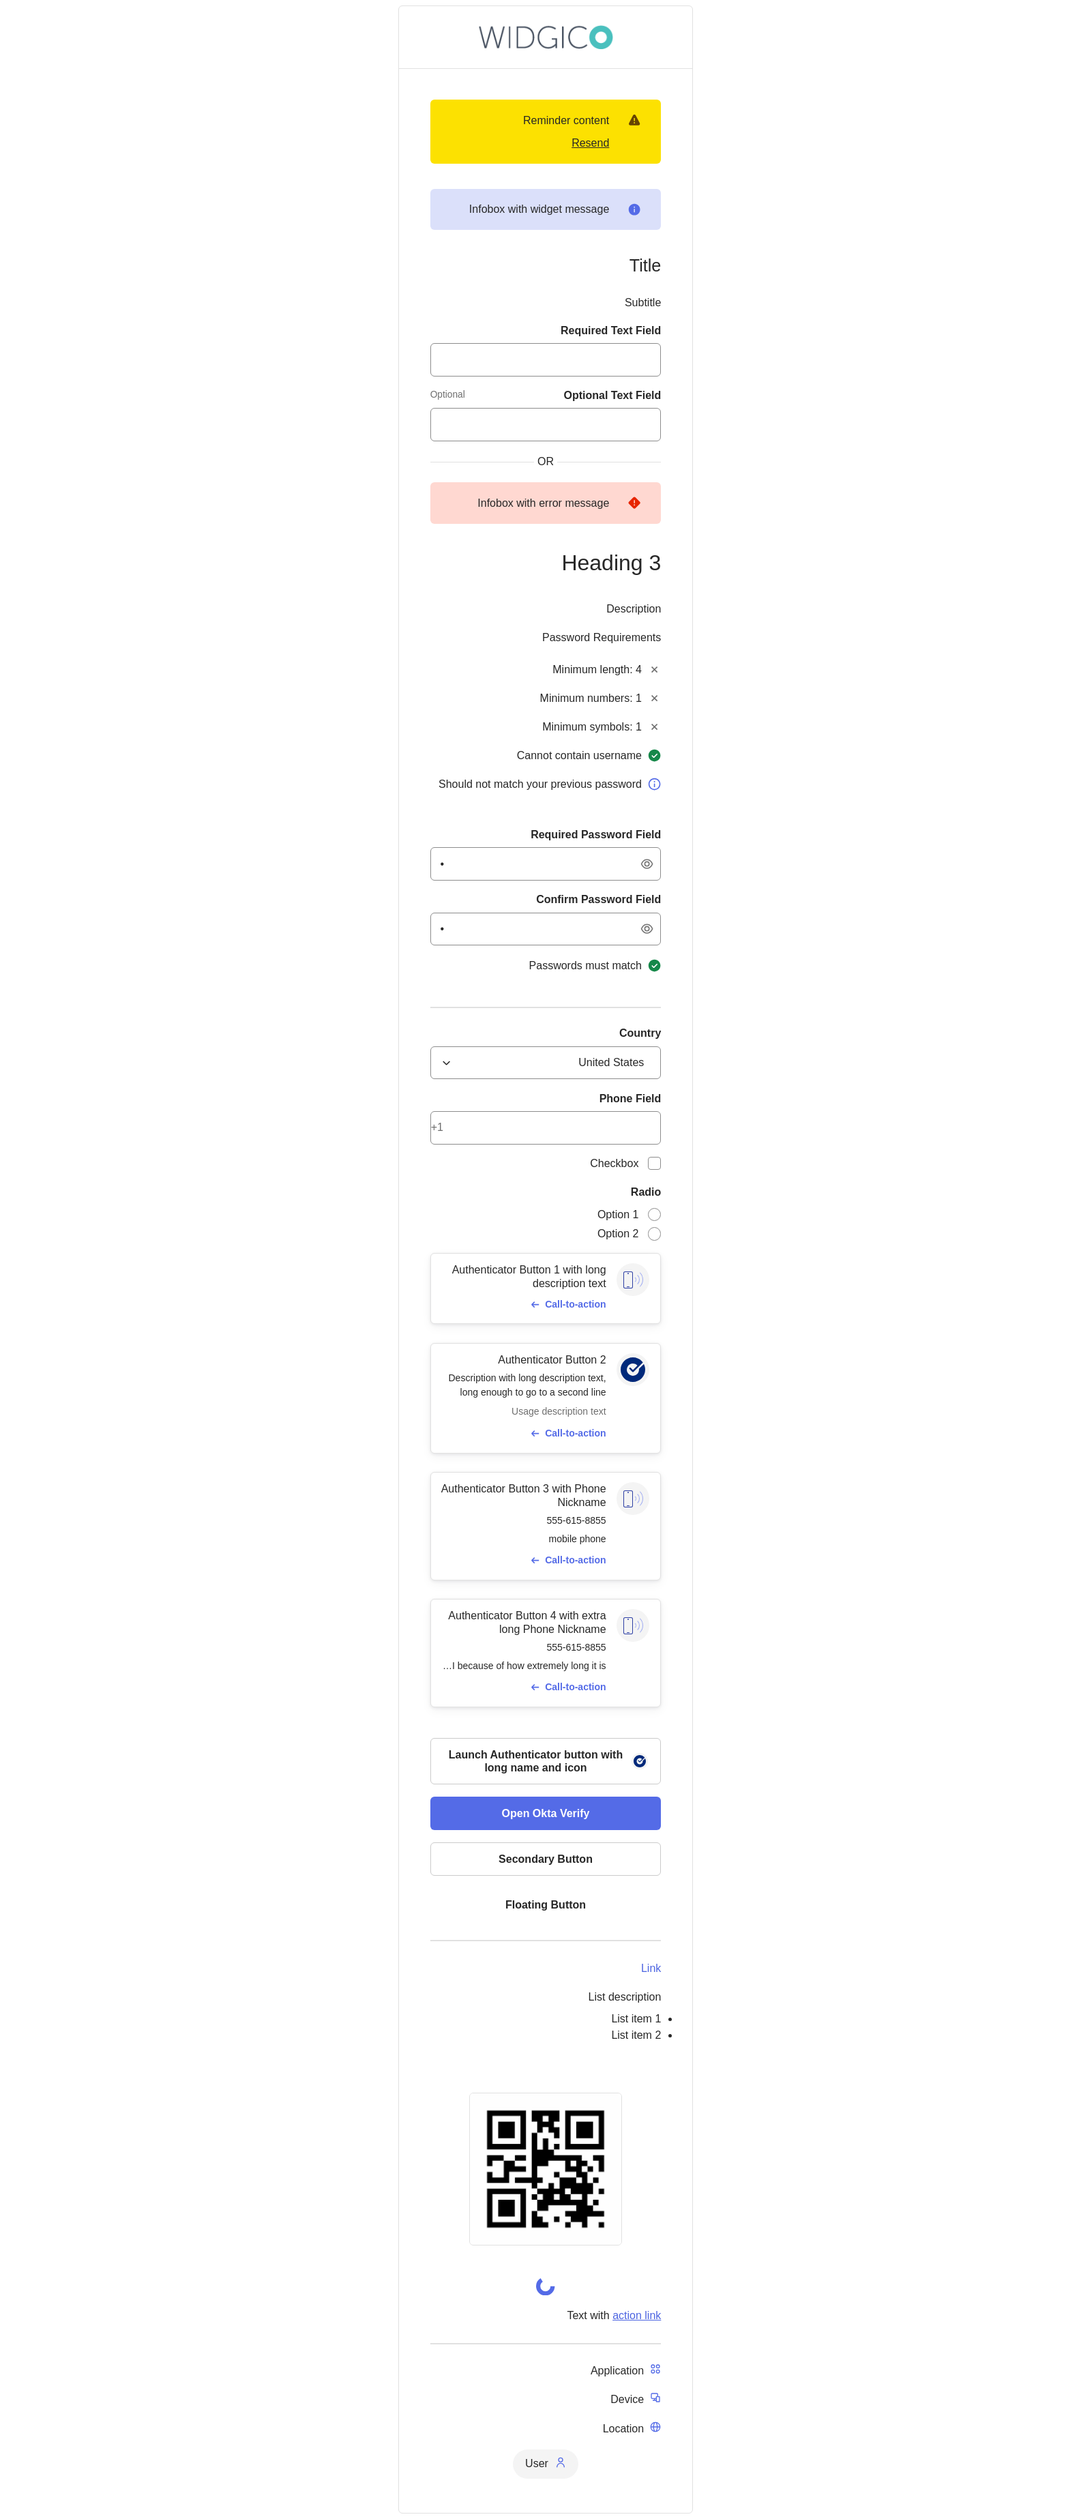
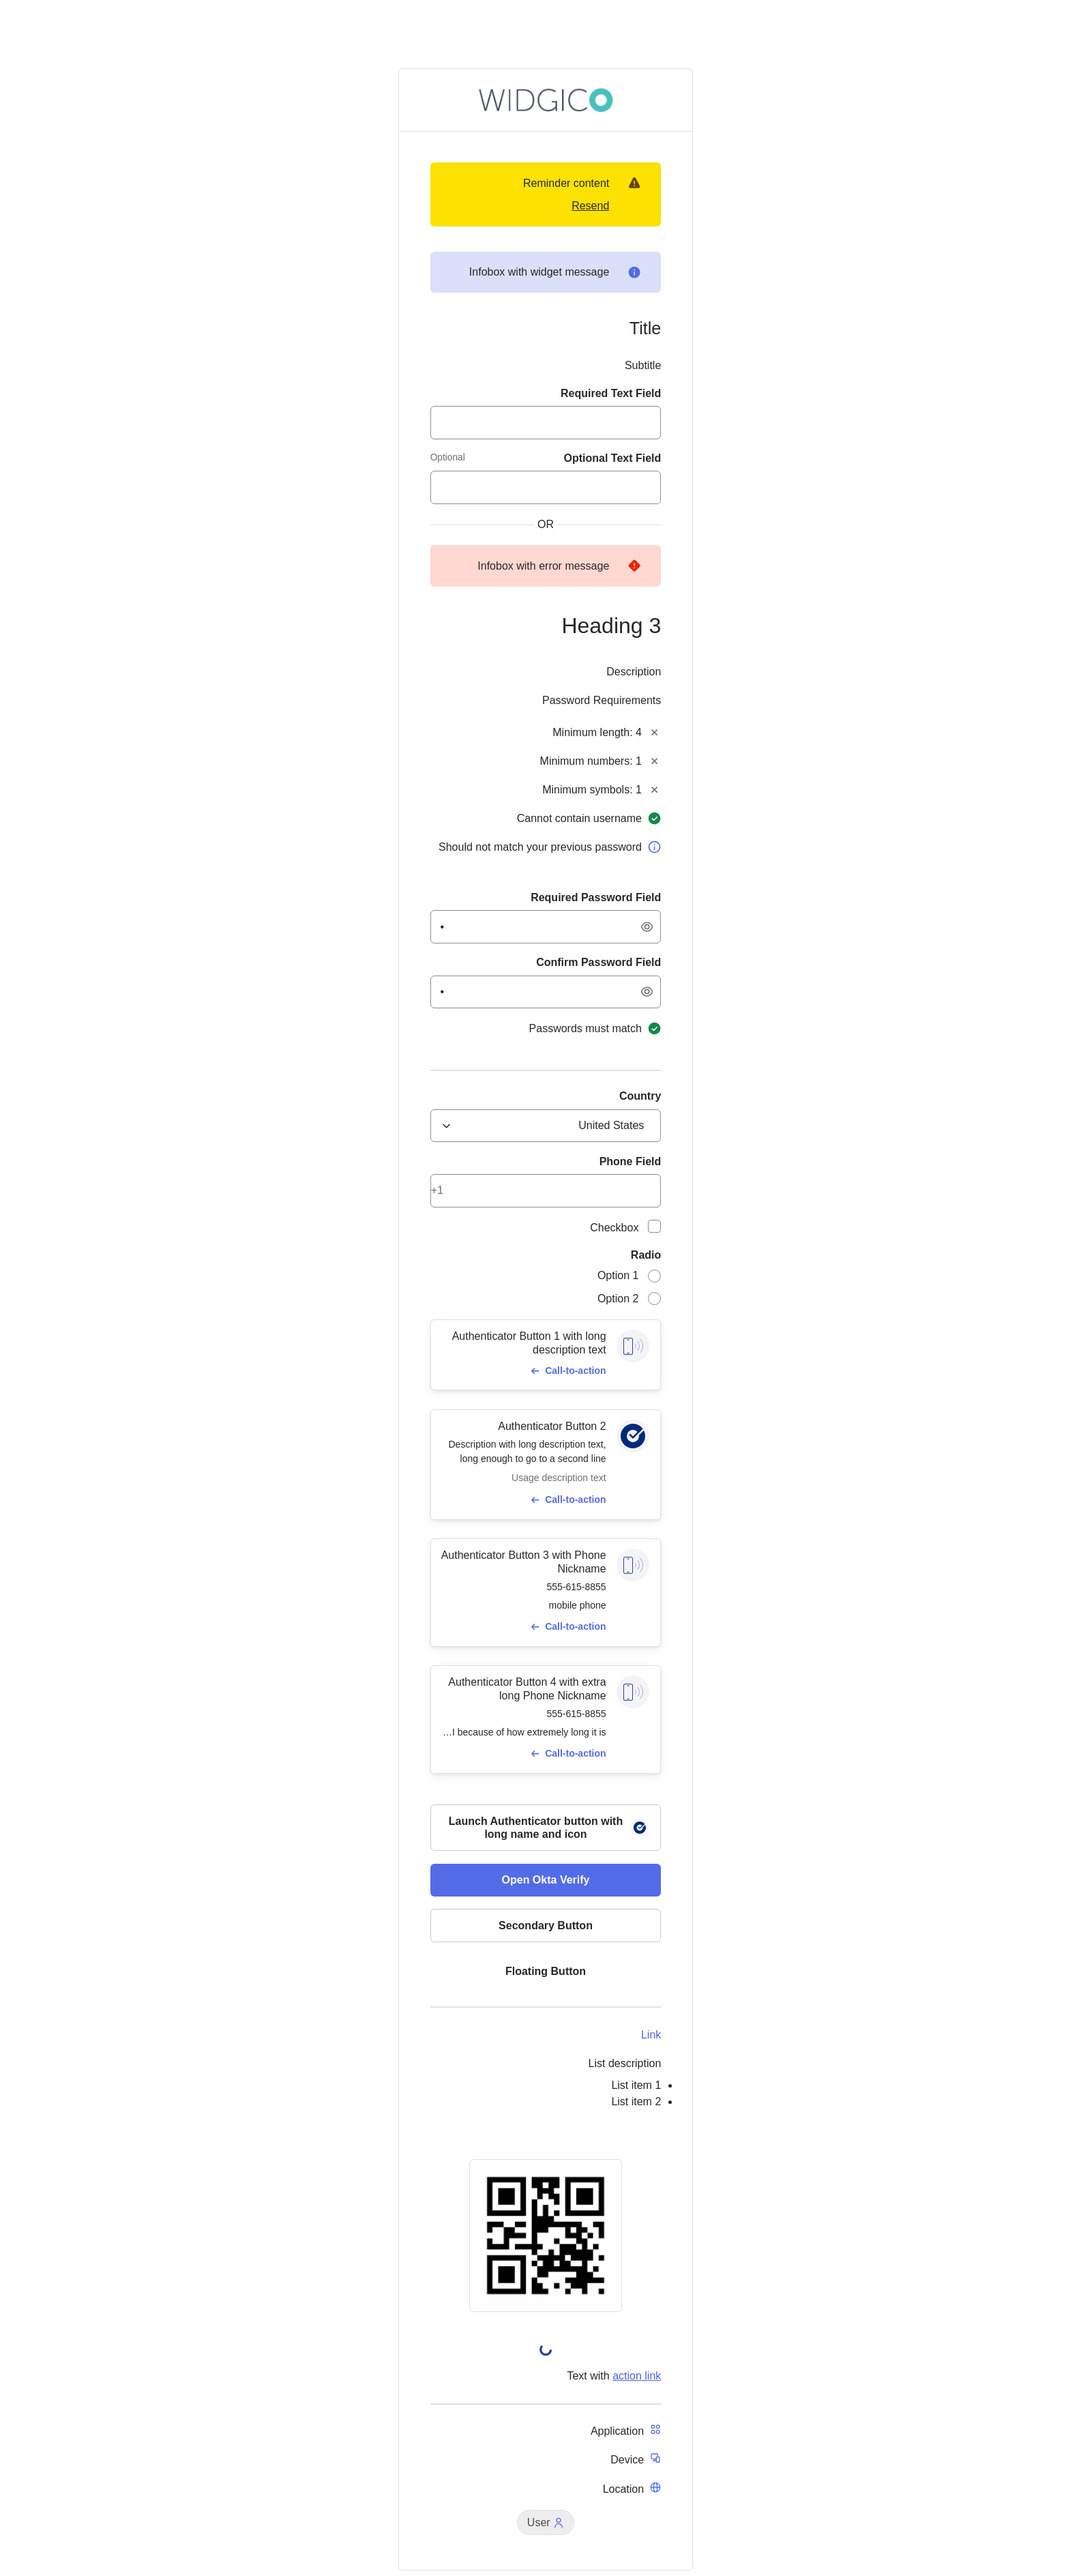
Use Tag. Fix en leaks test
gen3 enleaks fix

upd snaps

lint, unit, vrt fix

restore icon color

upd snaps

upd screenshots

add title

 fix en-leaks test

fix

.

restore '.no-translate'

Changed region(s): [[0.371, 0.0, 0.6183, 0.7785], [0.4328, 0.8408, 0.6183, 0.9653], [0.5565, 0.7785, 0.6183, 0.8096]]

diff --git a/src/v3/src/components/IdentifierContainer/IdentifierContainer.tsx b/src/v3/src/components/IdentifierContainer/IdentifierContainer.tsx
@@ -10,7 +10,7 @@
  * See the License for the specific language governing permissions and limitations under the License.
  */
 
-import { useOdysseyDesignTokens } from '@okta/odyssey-react-mui';
+import { Tag, useOdysseyDesignTokens } from '@okta/odyssey-react-mui';
 import { UserIcon } from '@okta/odyssey-react-mui/icons';
 import { Box } from '@okta/odyssey-react-mui-legacy';
 import classNames from 'classnames';
@@ -22,8 +22,7 @@ const IdentifierContainer: UISchemaElementComponent<{
 }> = ({ uischema }) => {
   const { options: { identifier } } = uischema;
 
-  const mainContainerClasses = classNames('identifier-container');
-  const identifierSpanClasses = classNames('identifier', 'no-translate');
+  const mainContainerClasses = classNames('identifier-container', 'no-translate');
   const tokens = useOdysseyDesignTokens();
 
   return (
@@ -34,46 +33,29 @@ const IdentifierContainer: UISchemaElementComponent<{
       marginBlockEnd={4}
       maxWidth={1}
       className={mainContainerClasses}
+      title={identifier}
     >
-      <Box
-        flex="auto"
-        flexDirection="row"
-        flexGrow="0"
-        paddingX={4}
-        paddingY={2}
-        sx={{
-          borderRadius: '36px',
-          backgroundColor: tokens.HueNeutral50,
-          textOverflow: 'ellipsis',
-          whiteSpace: 'nowrap',
-          overflow: 'hidden',
-        }}
-      >
-        <Box
-          component="span"
-          sx={{
-            color: tokens.PalettePrimaryMain,
-            verticalAlign: 'middle',
-          }}
-        >
-          <UserIcon
-            titleAccess="User"
-            sx={{ width: '16px', height: '16px' }}
-          />
-        </Box>
-        <Box
-          component="span"
-          className={identifierSpanClasses}
-          data-se="identifier"
-          title={identifier}
-          sx={{
-            marginInlineStart: '10px',
-          }}
-          aria-label={identifier}
-        >
-          {identifier}
-        </Box>
-      </Box>
+      <Tag
+        icon={(
+          <Box
+            sx={{
+              width: '16px',
+              height: '16px',
+            }}
+          >
+            <UserIcon
+              titleAccess="User"
+              sx={{
+                color: tokens.PalettePrimaryMain,
+                width: '16px',
+                height: '16px',
+              }}
+            />
+          </Box>
+        )}
+        label={identifier}
+        testId="identifier"
+      />
     </Box>
   );
 };

diff --git a/test/testcafe/spec-en-leaks/EnglishLeaks_spec.js b/test/testcafe/spec-en-leaks/EnglishLeaks_spec.js
@@ -170,7 +170,7 @@ const testEnglishLeaks = (mockIdxResponse, fileName, locale) => {
       //build array of noTranslationContent
       const noTranslateElems = await Selector('.no-translate').count;
       for (var i = 0; i < noTranslateElems; i++) {
-        const noTranslateContent = await Selector('.no-translate').nth(i).textContent;
+        const noTranslateContent = await Selector('.no-translate').nth(i).innerText;
         noTranslationContent.push(noTranslateContent);
       }
     }

diff --git a/src/v3/src/transformer/selectAuthenticator/utils.ts b/src/v3/src/transformer/selectAuthenticator/utils.ts
@@ -249,6 +249,7 @@ const formatAuthenticatorOptions = (
       ];
       const AUTHENTICATORS_WITH_NO_TRANSLATE_CLASS = [
         AUTHENTICATOR_KEY.PHONE,
+        AUTHENTICATOR_KEY.EMAIL,
         AUTHENTICATOR_KEY.CUSTOM_APP,
       ];
       const authenticator = option.relatesTo;
